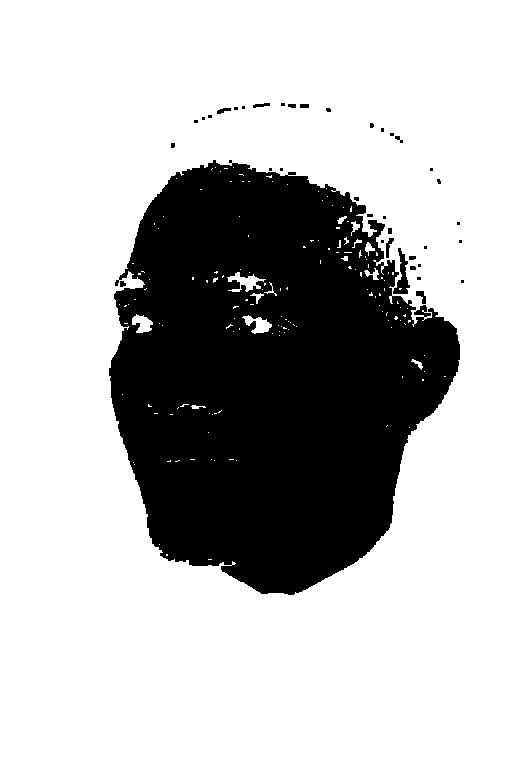
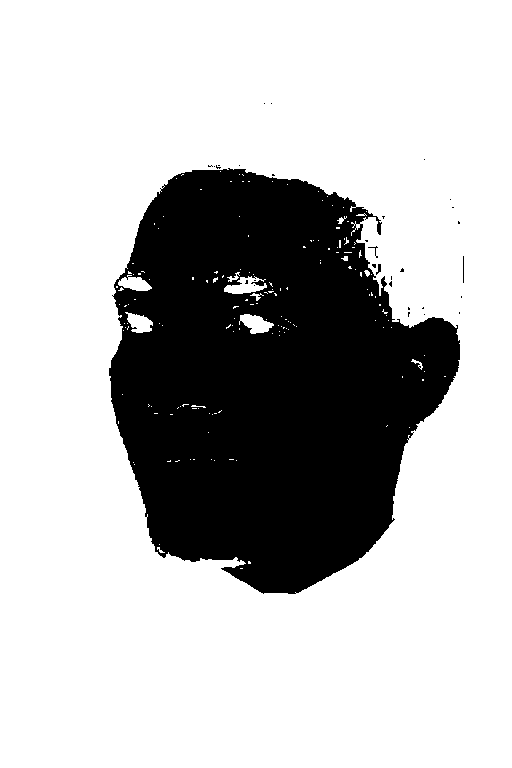
Fixed

diff --git a/Encode.py b/Encode.py
@@ -10,8 +10,13 @@ from PIL import Image
 import numpy
 from Utilites import add,string2bits,buck,change
 from SkinDetection import skind
-
+from onepixeldetection import detect_pixel
 def encode(msg,nob):
+    ###TESTING
+
+    sucess_cord=[]
+
+    ####
     ig='cat.png'#input("Enter Image name with extension/Image path:")
     img_arr = cv2.imread(ig)
     #print(img_arr.flags["WRITEABLE"])
@@ -30,8 +35,9 @@ def encode(msg,nob):
     
     print(msg_arr)
     cord=skind(ig,1)
-    #for c in cord:
-        #print(img_arr[c[0]][c[1]])
+    print("SKIN PIXEL")
+    for c in range(12):
+        print(cord[c])
     #print(cord)
     j=0
     i=0
@@ -39,22 +45,24 @@ def encode(msg,nob):
     rgb=0
     msg_index=0
     flag=False
-    for k in range(len(msg_arr)):
+    while(k<len(cord)):
         i=cord[k][0]
         j=cord[k][1]
-        print(f"i={i} j={j}")
+        #print(f"i={i} j={j}")
         
-        
+        #print(f"TRYING COORDINATES {i},{j}   MSG_BITS={msg_arr[msg_index]} {msg_arr[msg_index+1]} {msg_arr[msg_index+2]}")
         for rgb in range(0,3):
+            
             if(msg_index==len(msg_arr)):
                 flag=True
                 break
+            print(f"MSGBIT{msg_index}:{msg_arr[msg_index]}")
             t=img_arr[i][j][rgb]
             #print(f"{i}{j}{rgb}")
             t=list(format(t,"b"))
             t=t[-nob:]
             t="".join(t)
-            print(f"IMG OLD={img_arr[i][j][rgb]} ",end=" ") 
+            #print(f"IMG OLD={img_arr[i][j][rgb]} ",end=" ") 
             c=change(int(t,2),msg_arr[msg_index],bucket[msg_arr[msg_index]],nob)
             
            # print(f"IMG OLD={img_arr[i][j][rgb]} {format(img_arr[i][j][rgb],'b')}",end=" ")
@@ -72,21 +80,39 @@ def encode(msg,nob):
                 t=t+c
                 img_arr[i][j][rgb]=int(t,2)
             msg_index+=1
-            print(f"IMG NEW={img_arr[i][j][rgb]} {add(img_arr[i][j][rgb],nob)} ")
-           
+            #print(f"IMG NEW={img_arr[i][j][rgb]} {add(img_arr[i][j][rgb],nob)} ")
+        if(not(detect_pixel(img_arr[i][j]))):
+            print('Falied',i,j)
+            #print(f"IMG NEW={img_arr[i][j]}")
+            if(msg_index!=0):
+                msg_index-=3
+            
+        else:
+            print(f"Sucess COORDINATES {i},{j}")
+            sucess_cord.append([i,j])
+         
         if(flag):
             break
                
             #print(f"DATA NEW={add(img_arr[i][j],nob)} ",end=" ")
            #print(f"  IMG NEW={img_arr[i][j][rgb]}  {format(img_arr[i][j][rgb],'b')}")
         
-        
+        k+=1
        
         
 
 
     cv2.imwrite('stegoimg.PNG',img_arr)
+    ####
+    img_arr = cv2.imread('stegoimg.PNG')
+    for i in range(len(sucess_cord)):
+        print(sucess_cord[i][0],sucess_cord[i][1],img_arr[sucess_cord[i][0]][sucess_cord[i][1]])
+    ####
     print('\n\nKEY=',len(msg_arr))
+
+    ###
+    return sucess_cord
+    ###
     
 
         

diff --git a/onepixeldetection.py b/onepixeldetection.py
@@ -1,0 +1,37 @@
+import cv2
+import numpy as np
+def detect_pixel(img_pix):
+    
+    #img=cv2.imread(img)
+    img=[[img_pix]]
+
+    img=np.array(img)
+    cv2.imwrite('single.png',img)
+    img=cv2.imread('single.png')
+    img_HSV = cv2.cvtColor(img, cv2.COLOR_BGR2HSV)
+    #skin color range for hsv color space 
+    HSV_mask = cv2.inRange(img_HSV, (0, 15, 0), (17,170,255)) 
+    HSV_mask = cv2.morphologyEx(HSV_mask, cv2.MORPH_OPEN, np.ones((3,3), np.uint8))
+
+    #converting from gbr to YCbCr color space
+    img_YCrCb = cv2.cvtColor(img, cv2.COLOR_BGR2YCrCb)
+    #skin color range for hsv color space 
+    YCrCb_mask = cv2.inRange(img_YCrCb, (0, 135, 85), (255,180,135)) 
+    YCrCb_mask = cv2.morphologyEx(YCrCb_mask, cv2.MORPH_OPEN, np.ones((3,3), np.uint8))
+
+    #merge skin detection (YCbCr and hsv)
+    global_mask=cv2.bitwise_and(YCrCb_mask,HSV_mask)
+    global_mask=cv2.medianBlur(global_mask,3)
+    global_mask = cv2.morphologyEx(global_mask, cv2.MORPH_OPEN, np.ones((4,4), np.uint8))
+
+
+    HSV_result = cv2.bitwise_not(HSV_mask)
+    YCrCb_result = cv2.bitwise_not(YCrCb_mask)
+
+ 
+    global_mask=cv2.bitwise_not(global_mask)
+    if(global_mask[0]==255):
+        return False
+    return True
+    #cv2.imwrite("3_global_result.jpg",global_mask)
+

diff --git a/SkinDetection.py b/SkinDetection.py
@@ -8,18 +8,18 @@ def skind(image,nn):
     img_HSV = cv2.cvtColor(img, cv2.COLOR_BGR2HSV)
     #skin color range for hsv color space 
     HSV_mask = cv2.inRange(img_HSV, (0, 15, 0), (17,170,255)) 
-    HSV_mask = cv2.morphologyEx(HSV_mask, cv2.MORPH_OPEN, np.ones((3,3), np.uint8))
+    #HSV_mask = cv2.morphologyEx(HSV_mask, cv2.MORPH_OPEN, np.ones((3,3), np.uint8))
 
     #converting from gbr to YCbCr color space
     img_YCrCb = cv2.cvtColor(img, cv2.COLOR_BGR2YCrCb)
     #skin color range for hsv color space 
     YCrCb_mask = cv2.inRange(img_YCrCb, (0, 135, 85), (255,180,135)) 
-    YCrCb_mask = cv2.morphologyEx(YCrCb_mask, cv2.MORPH_OPEN, np.ones((3,3), np.uint8))
+    #YCrCb_mask = cv2.morphologyEx(YCrCb_mask, cv2.MORPH_OPEN, np.ones((3,3), np.uint8))
 
     #merge skin detection (YCbCr and hsv)
     global_mask=cv2.bitwise_and(YCrCb_mask,HSV_mask)
-    global_mask=cv2.medianBlur(global_mask,3)
-    global_mask = cv2.morphologyEx(global_mask, cv2.MORPH_OPEN, np.ones((4,4), np.uint8))
+    #global_mask=cv2.medianBlur(global_mask,3)
+    #global_mask = cv2.morphologyEx(global_mask, cv2.MORPH_OPEN, np.ones((4,4), np.uint8))
 
 
     HSV_result = cv2.bitwise_not(HSV_mask)

diff --git a/main.py b/main.py
@@ -1,13 +1,14 @@
 from Encode import encode
 from Extract import extract
 global nob
+global s
 while(True):
     ch=int(input("\n1.Encode\n2.Extract\n3.Exit\nEnter Choice:"))
     if(ch==1):
         nob=int(input("Enter Number Of Bits in LSB(3to8):")) 
         msg=input("Enter Secrect Message:")
-        encode(msg,nob)
+        s=encode(msg,nob)
     elif(ch==2):
-        print('SECRET MESSAGE :'+extract(nob))
+        print('SECRET MESSAGE :'+extract(nob,s))
     else:
         break

diff --git a/Extract.py b/Extract.py
@@ -10,7 +10,7 @@ from PIL import Image
 import numpy
 from Utilites import add,bit2strings
 from SkinDetection import skind
-def extract(nob):
+def extract(nob,sucess_cord=None):
     ig='stegoimg.PNG'
     #nob=int(input("Number Of Bits:"))
     img_arr = cv2.imread('stegoimg.PNG') 
@@ -22,6 +22,10 @@ def extract(nob):
    
     k=0
     cord=skind(ig,2)
+    ###
+    for i in range(key):
+        print(cord[i])
+    ###
     rgb=0
     for check in range(key):
         i=cord[k][0]
